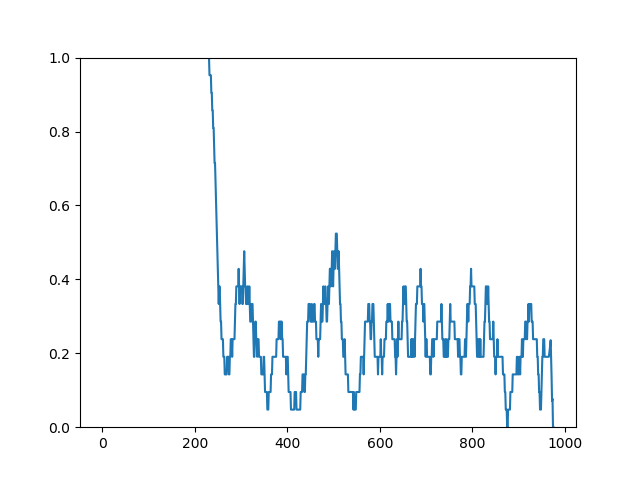
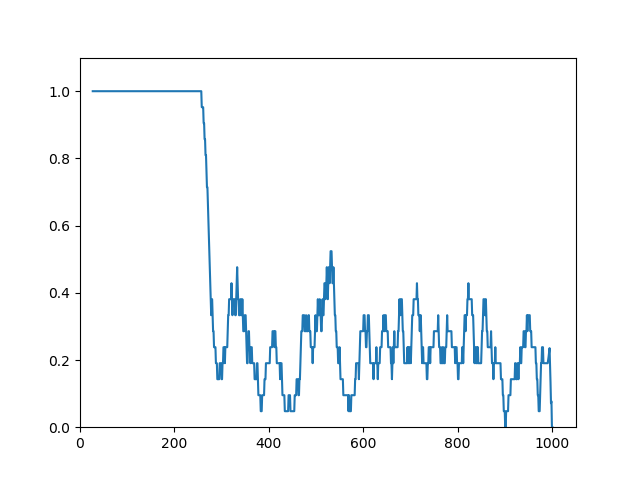
Implement a script to always pick the #2 best prediction

diff --git a/src/app/new_rnn/predict_helper.py b/src/app/new_rnn/predict_helper.py
@@ -100,3 +100,43 @@ def regenerate_sequence(implementation, min_seed_length, model, full_sequence):
             remaining_length -= 1
             length += 1
     return current_sequence, basewise_probabilities
+
+def regenerate_sequence_second_choice(implementation, min_seed_length, model, full_sequence):
+    reverse_encoding = CONSTANTS.REVERSE_INTEGER_ENCODING
+    label_encoder = KmerLabelEncoder()
+    prediction_length = 1
+    one_hot_decoder = OneHotVectorDecoder(prediction_length, encoding_constants=CONSTANTS)
+
+    sequence_length = len(full_sequence)
+    start_string = full_sequence[0:min_seed_length]
+
+    bases_to_predict = sequence_length - min_seed_length
+
+    basewise_probabilities = np.zeros((bases_to_predict, len(CONSTANTS.ONE_HOT_ENCODING)))
+
+    remaining_length = bases_to_predict
+    if implementation == IMP_CONSTANTS.SINGLE_BASE_PREDICTION:
+        current_sequence = str(start_string)
+        length = min_seed_length
+
+        seed = current_sequence[0:length - 1]
+        input_seq = label_encoder.encode_kmers([seed], [], with_shifted_output=False)[0]
+        model.predict(input_seq)
+        while remaining_length > 0:
+            base = current_sequence[length-1:length]
+            base_encoding = label_encoder.encode_kmers([base], [], with_shifted_output=False)[0]
+
+            prediction = model.predict(base_encoding)[0]
+            decoded_prediction = reverse_encoding[_second_largest_idx(prediction)]
+            current_sequence += decoded_prediction
+            basewise_probabilities[length - min_seed_length] = prediction
+
+            remaining_length -= 1
+            length += 1
+    return current_sequence, basewise_probabilities
+
+def _second_largest_idx(array):
+    copy = np.copy(array)
+    largest_idx = np.argmax(copy)
+    copy[largest_idx] = 0
+    return np.argmax(copy)

diff --git a/src/app/new_rnn/app_keras_predict_fasta_second_choice.py b/src/app/new_rnn/app_keras_predict_fasta_second_choice.py
@@ -26,20 +26,13 @@ def main():
     latent_dim = 100
 
     implementation = IMP_CONSTANTS.SINGLE_BASE_PREDICTION
-    if implementation == IMP_CONSTANTS.STATIC_PREDICTION:
-        model = SingleLSTMModel(min_seed_length=min_seed_length, stateful=False, embedding_dim=embedding_dim,
-                                latent_dim=latent_dim,
-                                with_gpu=True)
-    elif implementation == IMP_CONSTANTS.SINGLE_BASE_PREDICTION:
+    if implementation == IMP_CONSTANTS.SINGLE_BASE_PREDICTION:
         model = SingleLSTMModel(min_seed_length=min_seed_length, stateful=True, batch_size=1, embedding_dim=embedding_dim, latent_dim=latent_dim,
-                                with_gpu=True)
-    elif implementation == IMP_CONSTANTS.EXTENDING_SEQUENCE_PREDICTION:
-        model = SingleLSTMModel(min_seed_length=min_seed_length, embedding_dim=embedding_dim, latent_dim=latent_dim,
                                 with_gpu=True)
 
     model.load_weights('../weights/my_model_weights.h5')
 
-    predicted_string_with_seed, basewise_probabilities = helper.regenerate_sequence(implementation, min_seed_length, model, sequence)
+    predicted_string_with_seed, basewise_probabilities = helper.regenerate_sequence_second_choice(implementation, min_seed_length, model, sequence)
 
     predicted_sequence = predicted_string_with_seed[min_seed_length:sequence_length]
     actual_sequence = sequence[min_seed_length:sequence_length]

diff --git a/src/viz/SequenceRegenerationViz.py b/src/viz/SequenceRegenerationViz.py
@@ -41,7 +41,7 @@ class SequenceRegenerationViz:
             file.write(padding + comparison_string + '\n')
             file.write(padding + predicted_sequence + '\n')
             file.write('\n')
-            file.write('Mean Match: ' + str(round(np.mean(matches), 1)) + '\n')
+            file.write('Mean Match: ' + str(round(np.mean(matches),2)) + '\n')
             if first_mismatch_idx is not None:
                 file.write('First Mismatch: ' + str(first_mismatch_idx) + '\n')
             file.write('\n')
@@ -76,7 +76,7 @@ class SequenceRegenerationViz:
         file.write(predicted + '\n')
         file.write('\n')
         file.write('PREDICTED\n')
-        file.write('Mean Match: ' + str(round(np.mean(matches)), 1) +'\n')
+        file.write('Mean Match: ' + str(round(np.mean(matches), 2)) +'\n')
         if first_mismatch_idx is not None:
             file.write('First Mismatch: ' + str(first_mismatch_idx) + '\n')
         file.close()
